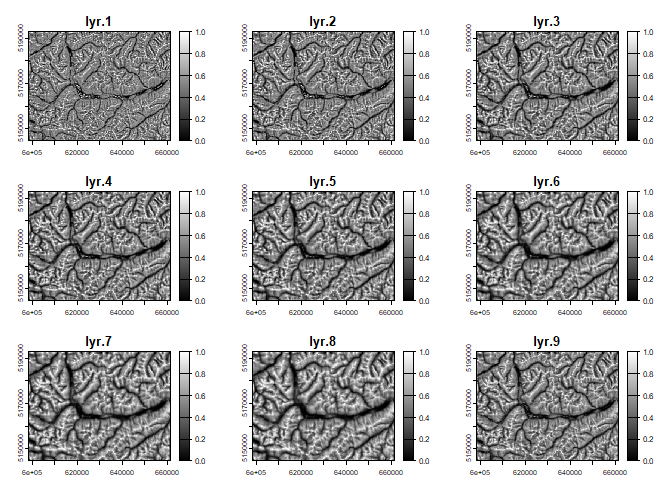
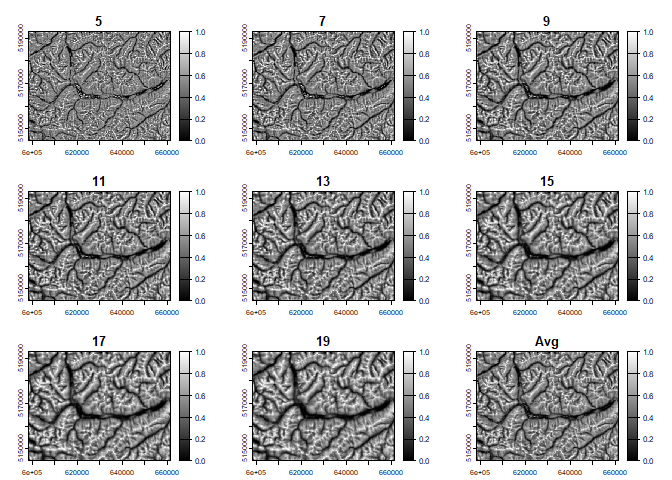
readme update

diff --git a/README.md b/README.md
@@ -1,19 +1,15 @@
 
 <!-- README.md is generated from README.Rmd. Please edit that file -->
 
-# RSExtraction
+# RRExtraction
 
 <!-- badges: start -->
 <!-- badges: end -->
 
-The goal of RSExtraction is to provide a resource to perform analysis
-presented in Lehner et al. (2024). Currently, this methodology is
-developed for DEM datasets projected in UTM. Other coordinate systems
-can be used, although the unit vector surfaces are unreliable due to the
-discrepancy between lat/long degrees vs meters between the planar extent
-and elevation values. Limited testing has shown that the ridge and swale
-features extracted do not appear to be greatly affected and seem
-reliable.
+Create Relative Relief surface for distinct scales and multiple scales
+including their average. To date the profile-based approaches have not
+been tested. Refer to the examples in the readme for working with DEM
+surfaces.
 
 ## Installation
 
@@ -98,6 +94,7 @@ plot(data, col=turbo(200), legend = T)
 # Get RR for scales between a 5 and 19 scale stepping by 2 and the average RR
 rr.Avg5.19.2 <- rr.Average(inRas = data, inMn = 5, inMx = 19, stp=2)
 #> Scale: 5 Scale: 7 Scale: 9 Scale: 11 Scale: 13 Scale: 15 Scale: 17 Scale: 19 
+names(rr.Avg5.19.2) <- c('5', '7', '9', '11', '13', '15', '17', '19', 'Avg')
 plot(rr.Avg5.19.2, col=gray(1:200/200))
 ```
 
@@ -108,6 +105,7 @@ plot(rr.Avg5.19.2, col=gray(1:200/200))
 # Get RR for scales between a 5 and 33 scale stepping by 4 and the average RR
 rr.Avg5.33.4 <- rr.Average(inRas = data, inMn = 5, inMx = 33, stp=4)
 #> Scale: 5 Scale: 9 Scale: 13 Scale: 17 Scale: 21 Scale: 25 Scale: 29 Scale: 33 
+names(rr.Avg5.19.2) <- c('5', '9', '13', '17', '21', '25', '29', '33', 'Avg')
 plot(rr.Avg5.33.4, col=gray(1:200/200))
 ```
 
